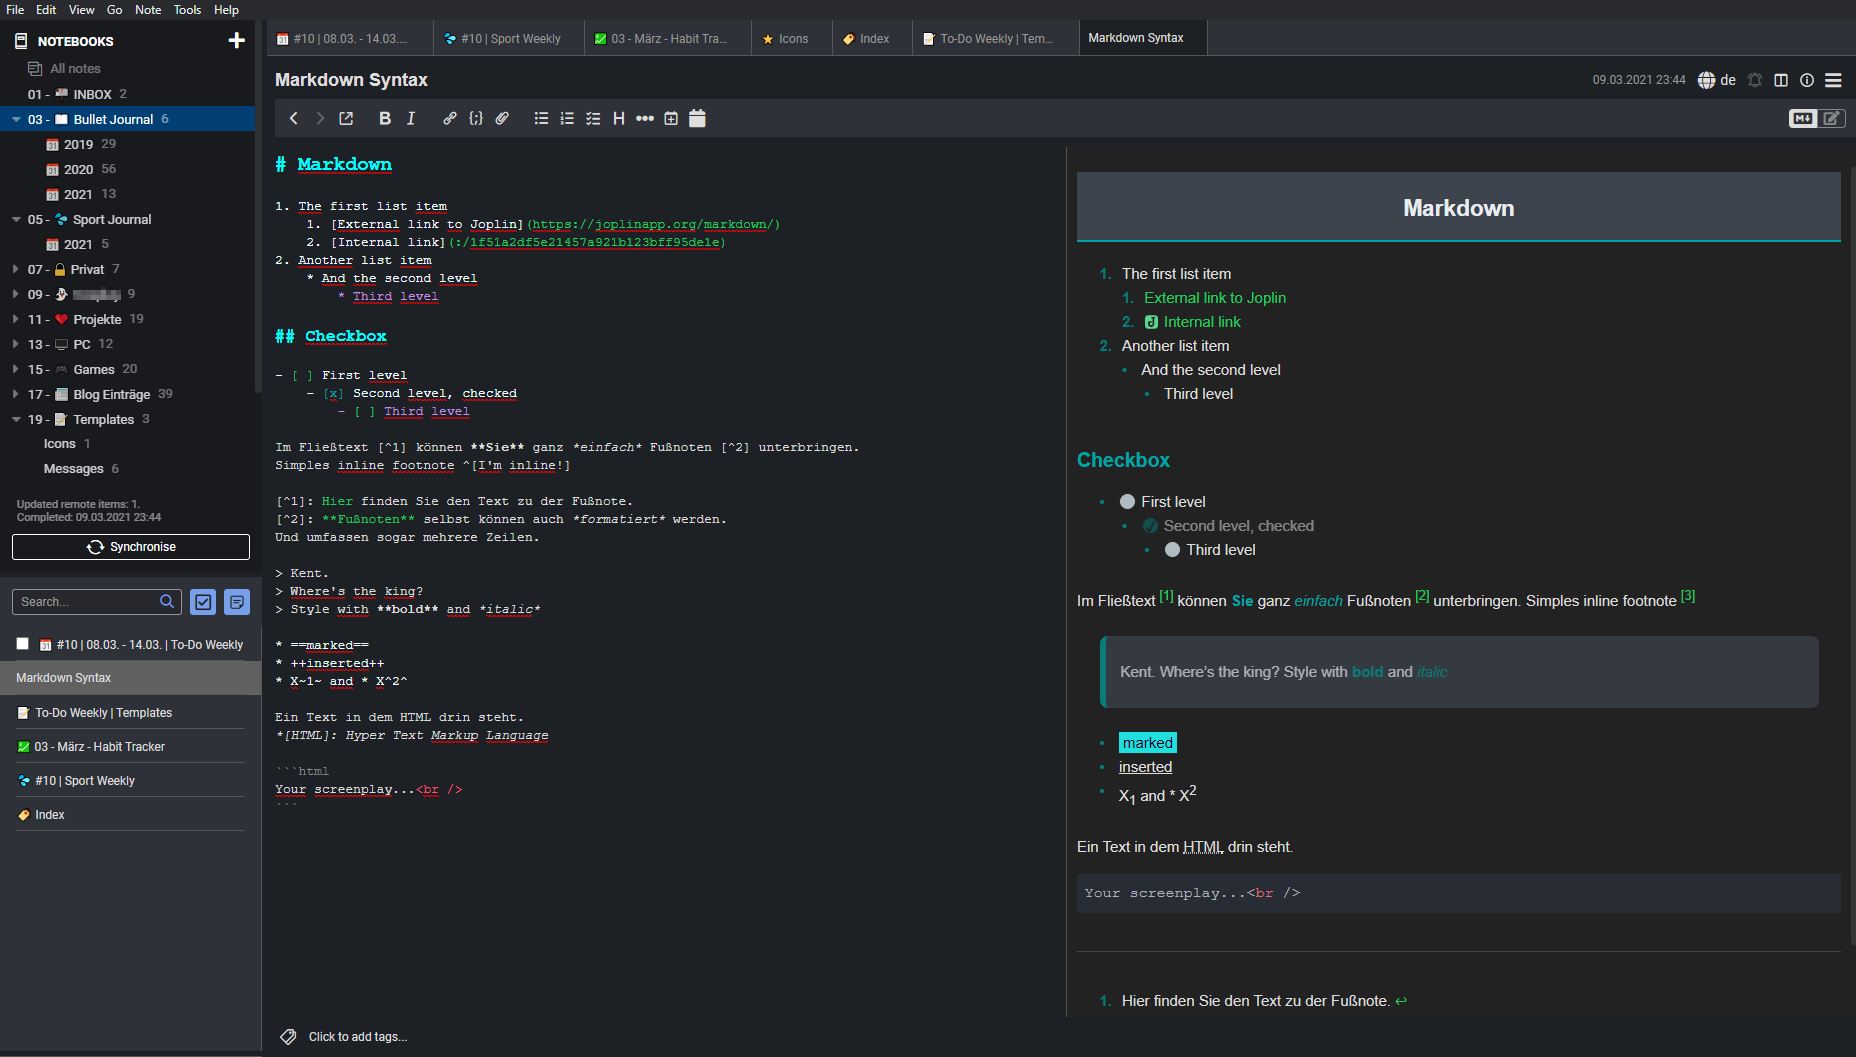
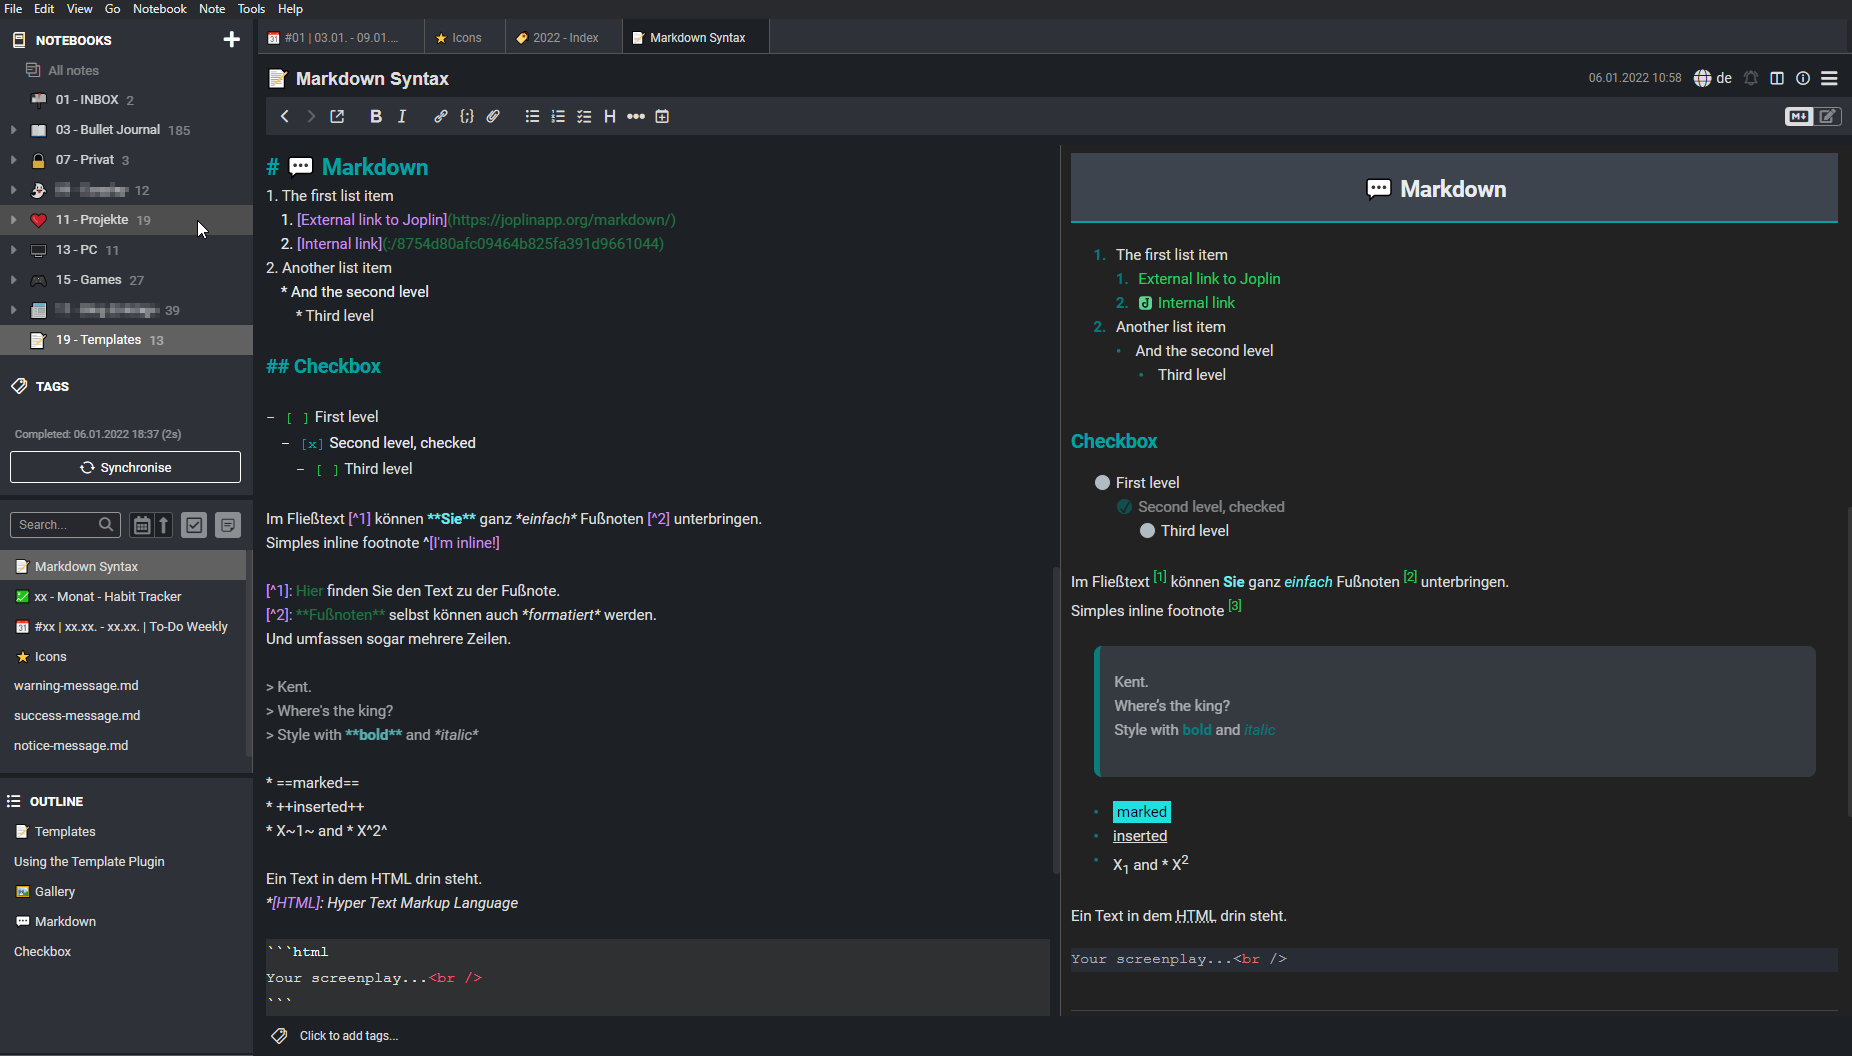
Readme Screenshots and added used Plugins

diff --git a/README.md b/README.md
@@ -56,5 +56,13 @@ You can find your Template folder here `C:\Users\<username>\.config\joplin-deskt
 
 ![Template Messages](/assets/template_messages.png)
 
+# Used Plugins
+I use the following Plugins which are already designed by me:
+* [Copy Anchor Link](https://github.com/hieuthi/joplin-plugin-copy-anchor-link)
+* [Markdown Table: Colorize](https://github.com/hieuthi/joplin-plugin-markdown-table-colorize)
+* [Note Tabs](https://github.com/benji300/joplin-note-tabs)
+* [Outline](https://github.com/cqroot/joplin-outline)
+* [Templates](https://github.com/joplin/plugin-templates)
+
 # Question
 I found the design for the headers in another project, but forgot to save the source. If someone knows from whom this was, I would be really glad to add a source link 😊
